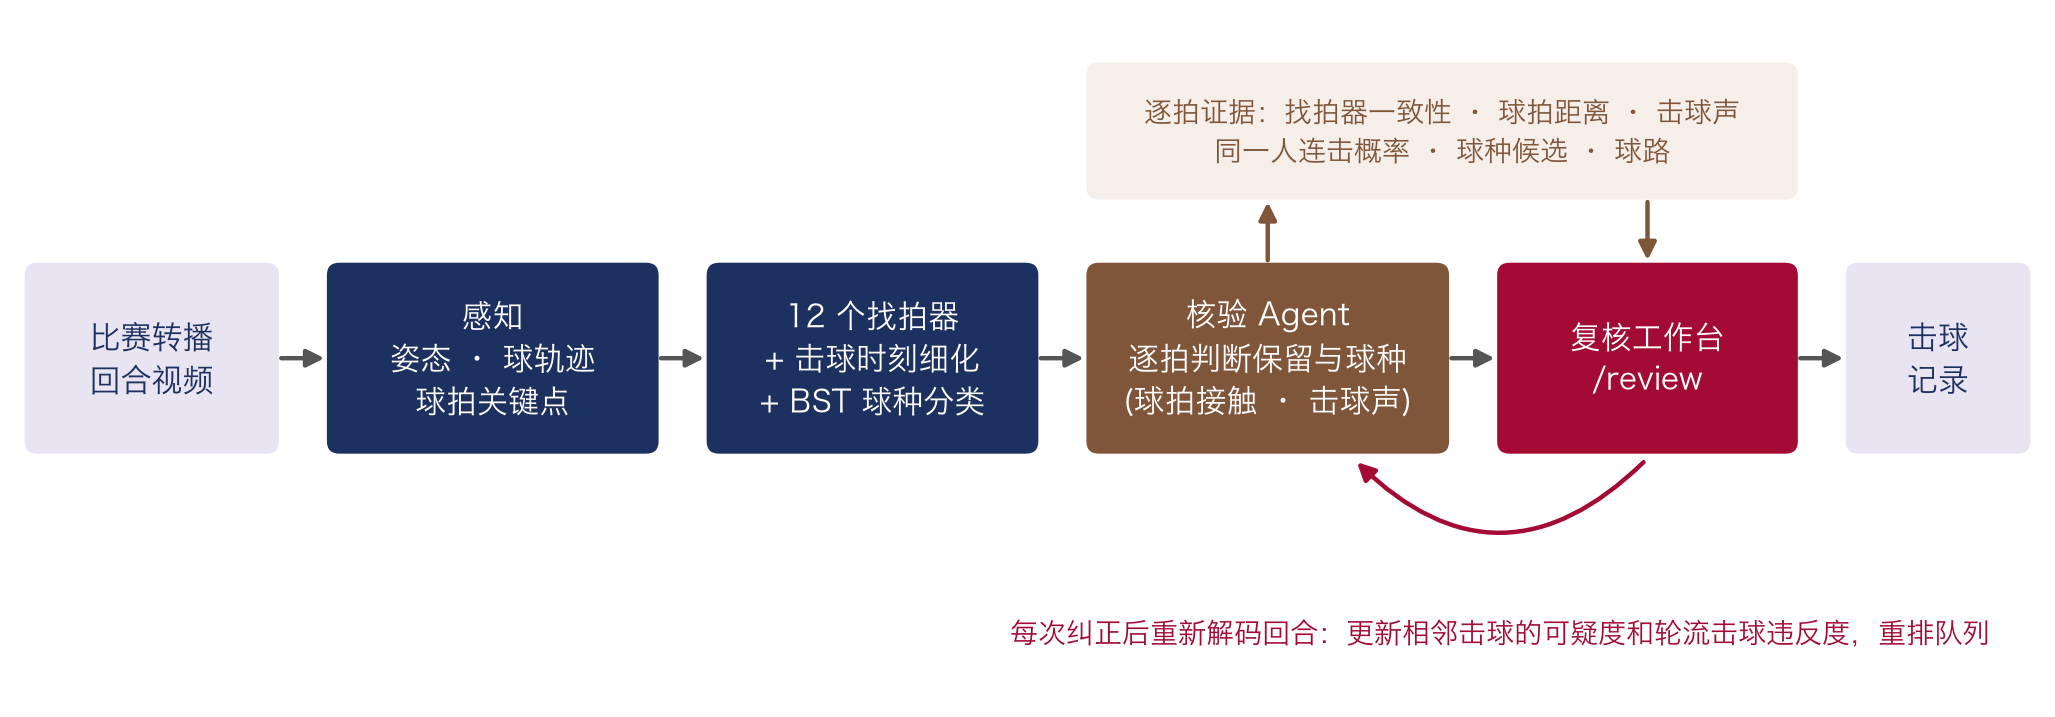
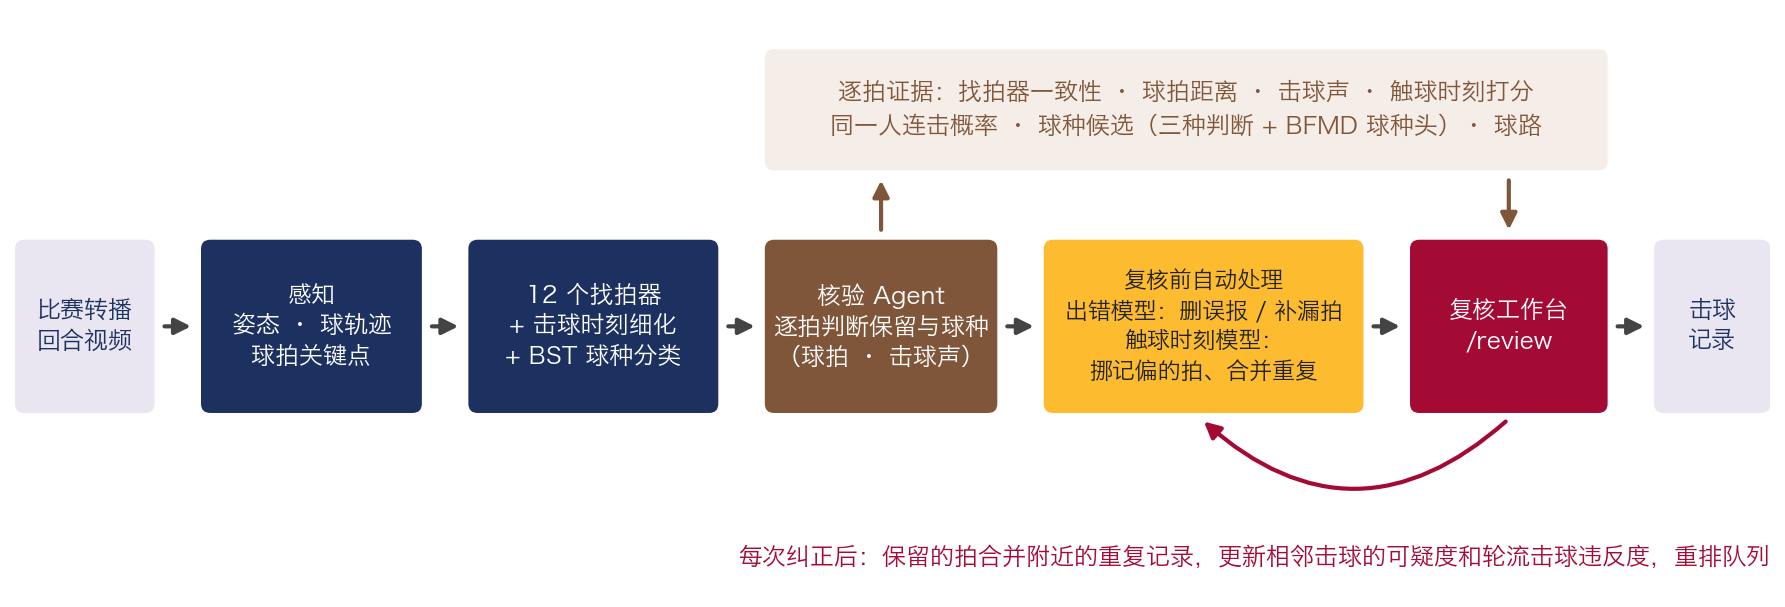
README: results, architecture and figures with the contact-time model

diff --git a/README.md b/README.md
@@ -4,7 +4,7 @@
 
 系统先从比赛转播视频自动记下每一拍（击球时刻 + 球种），再把最可能出错的几拍按“改了收益最大”的顺序交给运动员或分析员核对，并在每一拍旁边给出判断用的证据：找拍器是否一致、球拍是否碰到球、有没有击球声、时刻是否记偏。
 
-在 12 场 BFMD 职业单打上逐场留出评测：要把记录纠正到联合 F1 0.80，所需复核时间比现有的逐拍顺序核对少 **73%**，比只看分类器概率的排序少 **55%**；只去掉多来源证据、其余不变，时间要多花一倍（节省 50%）。
+在 12 场 BFMD 职业单打上逐场留出评测：要把记录纠正到联合 F1 0.80，所需复核时间比现有的逐拍顺序核对少 **80%**，比只看分类器概率的排序少 **67%**；去掉多来源证据、其余不变，要花 2.7 倍的时间；不用触球时刻模型，要花 1.4 倍。
 
 ![复核工作台](docs/images/review_open.png)
 
@@ -30,8 +30,8 @@
    - 三种球种判断的候选（综合判断、BST 原窗口、BST 作者切片规则）、击球前后的球路、两人轮流击球是否被违反；
    - BFMD 专用球种判断：取 BST 分类头前的 600 维特征，在没见过该场比赛的 BFMD 标注上训练的球种头，看它是否同意当前球种。
 
-   出错模型按错误类型（误报、时刻记偏、球种错、漏拍）分别拟合；训练比赛的输入由没见过该场的核验 Agent 交叉拟合产生。交给复核者之前，出错模型先做第二遍自动核验（删去很可能是误报的拍、补上很可能真实的漏拍，被动过的拍沿用这一遍的概率，复核时可以改回）。完整系统达到 F1 0.78 / 0.80 / 0.82 / 0.85 所需的复核时间，比去掉多来源证据、其余不变的同一方法少 59% / 50% / 38% / 34%（见下表）。
-3. **回合结构**：轮流击球和击球节奏作为证据进入核验 Agent；工作台在每次纠正后重新解码回合、更新相邻击球的可疑度。但在 12 场逐场留出中，“纠正后传播”相对不传播没有可测的增益（±0.3 个点），因此不作为单独的技术贡献主张。
+   出错模型按错误类型（误报、时刻记偏、球种错、漏拍）分别拟合；训练比赛的输入由没见过该场的核验 Agent 交叉拟合产生。交给复核者之前，出错模型先做第二遍自动核验（删去很可能是误报的拍、补上很可能真实的漏拍，被动过的拍沿用这一遍的概率，复核时可以改回）。完整系统达到 F1 0.78 / 0.80 / 0.82 / 0.85 / 0.88 所需的复核时间，比去掉多来源证据、其余不变的同一方法少 73% / 63% / 56% / 45% / 37%（去掉多来源证据后也没有触球时刻模型；两边都不加触球模型时为 59% / 50% / 38% / 34%，F1 0.78–0.85）。
+3. **触球时刻模型**：漏拍里约三分之二其实是时刻记偏，而用击球声、球拍或回合规则去对齐时刻，都不比检测器更准。`benchmarks/bfmd/contact.py` 用 BFMD 参考触球帧训练一个小型时序卷积网络，逐帧读入两路球轨迹、两名球员手腕与球的相对位置、球拍、击球声和各找拍器信号，判断哪一帧是触球。复核前用它把记偏的拍挪到触球帧、把同一次触球的重复记录合并成一拍；复核时它给出建议时刻。达到 F1 0.78–0.88 的复核时间再省 18–34%（0.82 及以上区间不含 0）。轮流击球和节奏仍作为证据进入核验 Agent，工作台在每次纠正后也仍会重新解码回合，但这种“纠正后传播”单独看没有可测增益（±0.3 个点），不作为技术贡献主张。
 
 ## 系统架构
 
@@ -43,9 +43,10 @@
 | 找拍 | 6 种找拍器（几何规则、声画融合、GRU、ShuttleHitFormer、Adapted-HitNet、RGB ResNet）× 2 种球轨迹 = 12 条路线，再做击球时刻细化 | `benchmarks/bfmd/study_hits.py`、`refine.py`、`professional_agents/hit_tools.py` |
 | 球种 | BST-0 / BST-CG-AP，映射到 BFMD 9 类（高远、挑球、吊球、杀球、平抽、推球、扑球、网前、挡网/防守；发球不计分） | `specialist_bst.py`、`benchmarks/bfmd/bfmd_labels.py` |
 | 核验 Agent | 把 12 条路线的候选合并，逐拍判断“保不保留”和“是什么球种”。特征包括找拍器一致性、球路转向与速度、BST 置信度、姿态、球拍接触、击球声 | `benchmarks/bfmd/verify.py`、`audio.py` |
-| 复核 | 排序队列、证据面板、纠正后的回合重解码与传播；离线模拟评测 | `benchmarks/bfmd/review.py`、`review_web.py`、`static/review.html` |
+| 复核前自动处理 | 出错模型删去很可能的误报、补上很可能的漏拍；触球时刻模型把记偏的拍挪到触球帧并合并重复记录 | `benchmarks/bfmd/review.py`、`contact.py` |
+| 复核 | 排序队列、证据面板、纠正后的合并重复与回合重解码；离线模拟评测 | `benchmarks/bfmd/review.py`、`review_web.py`、`static/review.html` |
 
-评测时，每场比赛的回合只由在另外 11 场上拟合的核验 Agent 和出错模型处理；复核工作台使用同样冻结的逐场模型包 `frozen_review_lomo12.json`。
+评测时，每场比赛的回合只由在另外 11 场上拟合的核验 Agent 和出错模型处理；复核工作台使用同样冻结的逐场模型包 `frozen_review_lomo12.json`（含每场只在另外 11 场上训练的触球时刻模型）。
 
 ## 目前结果
 
@@ -63,24 +64,25 @@
 | 最强单一来源基线：无多来源证据，按分类器概率排序 | 0.684 | 0.723 | 0.761 | 0.798 | 0.862 |
 | 同一方法去掉多来源证据（出错模型 + 第二遍自动核验） | 0.684 | 0.735 | 0.772 | 0.811 | 0.873 |
 | 完整系统：按核验 Agent 置信度排序 | 0.721 | 0.759 | 0.799 | 0.833 | 0.887 |
-| 完整系统：出错模型排序（上一版） | 0.721 | 0.770 | 0.812 | 0.844 | 0.896 |
-| **完整系统：+ BFMD 球种头证据 + 第二遍自动核验** | **0.729** | **0.785** | **0.820** | **0.859** | **0.899** |
-| 理想顺序（上限，同一起点） | 0.729 | 0.805 | 0.878 | 0.932 | 0.972 |
+| 完整系统：出错模型排序 | 0.721 | 0.770 | 0.812 | 0.844 | 0.896 |
+| 完整系统：+ BFMD 球种头证据 + 第二遍自动核验 | 0.729 | 0.785 | 0.820 | 0.859 | 0.899 |
+| **完整系统：+ 触球时刻模型（挪时刻、合并重复）** | **0.740** | **0.800** | **0.838** | **0.874** | **0.903** |
+| 理想顺序（上限，同一起点） | 0.740 | 0.821 | 0.905 | 0.951 | 0.970 |
 
 达到同一联合 F1 所需复核时间，完整系统节省：
 
 ![节省的复核时间](docs/images/result_time_saved.png)
 
-| 完整系统对比 | 达到 F1 0.78 | 0.80 | 0.82 | 0.85 |
-|---|---:|---:|---:|---:|
-| 现有做法（无多来源证据，逐拍顺序核对） | 77% [60, 98] | 73% [57, 86] | 66% [55, 80] | 61% [47, 73] |
-| 最强单一来源基线（无多来源证据，按分类器概率） | 64% [43, 97] | 55% [38, 78] | 45% [35, 65] | 40% [28, 52] |
-| 同一方法去掉多来源证据（创新点 2 消融） | 59% [36, 96] | 50% [32, 71] | 38% [29, 59] | 34% [24, 46] |
-| 上一版完整系统（无球种头、无第二遍自动核验） | 26% [2, 55] | 19% [4, 33] | 10% [3, 24] | 14% [1, 19] |
+| 完整系统对比 | 达到 F1 0.78 | 0.80 | 0.82 | 0.85 | 0.88 |
+|---|---:|---:|---:|---:|---:|
+| 现有做法（无多来源证据，逐拍顺序核对） | 85% [72, 100] | 80% [68, 91] | 75% [65, 86] | 67% [60, 79] | 59% [45, 69] |
+| 最强单一来源基线（无多来源证据，按分类器概率） | 76% [57, 100] | 67% [51, 85] | 61% [46, 75] | 50% [40, 64] | 45% [30, 55] |
+| 同一方法去掉多来源证据（创新点 2 消融） | 73% [50, 100] | 63% [43, 82] | 56% [39, 72] | 45% [32, 61] | 37% [22, 48] |
+| 不用触球时刻模型、不能挪时刻（创新点 3 消融） | 34% [−13, 85] | 28% [−1, 49] | 30% [2, 43] | 18% [6, 35] | 18% [3, 29] |
 
-方括号为 95% 区间。节省来自三部分：多来源证据让自动记录本身更准（复核前 0.684 → 0.721），第二遍自动核验再提到 0.729，出错模型让前 30% 的复核更集中在真错误上。没有多来源证据时，第二遍自动核验什么也不改（0.684 → 0.684）。
+方括号为 95% 区间。节省来自几部分：多来源证据让自动记录本身更准（复核前 0.684 → 0.721），第二遍自动核验再提到 0.729，触球时刻模型挪时刻、合并重复后到 0.740；出错模型让前 30% 的复核更集中在真错误上。没有多来源证据时，第二遍自动核验什么也不改（0.684 → 0.684）。BFMD 球种头证据和第二遍自动核验两项（还没有触球模型时）相对之前的版本，达到 F1 0.78–0.85 省 10–26%。
 
-“挪动时刻”这个操作单独看：在 50% 以内的复核量上只省 1–5% 的时间（区间包含 0），时刻证据用于排序也没有增益；它的作用在复核后期，全部复核完时剩余漏拍从 103 个减到 76 个（联合 F1 0.950 → 0.962）。
+没有触球时刻模型时，“挪动时刻”这个操作单独看：在 50% 以内的复核量上只省 1–5% 的时间（区间包含 0），时刻证据用于排序也没有增益；它的作用在复核后期，全部复核完时剩余漏拍从 103 个减到 76 个（联合 F1 0.950 → 0.962）。有了触球时刻模型，挪时刻在复核前就自动完成，见下节。
 
 ### 触球时刻模型（创新点 3）
 
@@ -92,7 +94,7 @@
 | **+ 触球时刻模型 + 合并重复 + 挪时刻** | **0.740** | **0.800** | **0.838** | **0.874** | **0.903** |
 | 上限：重复和记偏全部自动纠正 | 0.760 | 0.815 | 0.849 | 0.879 | 0.911 |
 
-达到 F1 0.78 / 0.80 / 0.82 / 0.85 / 0.88 的复核时间再省 34% / 28% / 30% / 18% / 18%（0.82 及以上区间不含 0）。加上它之后，完整系统要达到 F1 0.80，比现有做法省 80%，比最强单一来源基线省 67%。逐场看，12 场中 7 场复核前 F1 提高、5 场略降（最多 −0.03）：两拍真触球相隔不到 0.3 秒的快速对抽里，模型偶尔会把一拍挪到邻居的触球帧上再被合并。限制“不能越过邻居”反而让总体变差（击球 F1 0.908 → 0.903），所以保留现在的做法。
+达到 F1 0.78 / 0.80 / 0.82 / 0.85 / 0.88 的复核时间再省 34% / 28% / 30% / 18% / 18%（0.82 及以上区间不含 0；上面的总表和图已包含这一项）。逐场看，12 场中 7 场复核前 F1 提高、5 场略降（最多 −0.03）：两拍真触球相隔不到 0.3 秒的快速对抽里，模型偶尔会把一拍挪到邻居的触球帧上再被合并。限制“不能越过邻居”反而让总体变差（击球 F1 0.908 → 0.903），所以保留现在的做法。
 
 ### 自动记录与证据
 
@@ -107,7 +109,7 @@
 ### 试过但没有用的方法
 
 - 纠正后传播（相邻击球的可疑度、重解码回合、重算轮流击球）：12 场留出中相对不传播 ±0.3 个点。
-- 回合结构化解码（相邻触球至少 0.3 s、两人轮流击球，复核后重新解码）+ 挪动时刻：相对都不用，达到 F1 0.78–0.88 省 5–12% 时间，区间包含 0。上限实验（用参考答案把重复记录和记偏的拍全部自动纠正）可省 44–67%（F1 0.78–0.82），说明空间存在；瓶颈是 30 fps 下现有证据（击球声、球拍、球路转向、各路线时刻）定位真正触球帧并不比检测器更准。用这些证据训练的触球帧定位器、加入回合几何的球种模型也都没有带来可测的提升。
+- 回合结构化解码（相邻触球至少 0.3 s、两人轮流击球，复核后重新解码）+ 挪动时刻：相对都不用，达到 F1 0.78–0.88 省 5–12% 时间，区间包含 0。上限实验（用参考答案把重复记录和记偏的拍全部自动纠正）可省 44–67%（F1 0.78–0.82），说明空间存在；瓶颈是 30 fps 下单独用某一种证据（击球声、球拍、球路转向、各路线时刻）定位真正触球帧并不比检测器更准。用这些证据在每拍窗口内做线性打分的触球帧定位器、加入回合几何的球种模型也都没有带来可测的提升；改用逐帧读入全部证据的时序卷积网络后才有效（见“触球时刻模型”）。
 - 按回合规律传播球种（学到的球种转换先验）：相邻标签变对和变错大约各半。
 - 按错误类型校准、按场在线调整出错概率：都不如未校准的收益排序。
 - 同场比赛用已核对击球微调分类器或相似击球投票：剩余击球的球种准确率没有实质提升。
